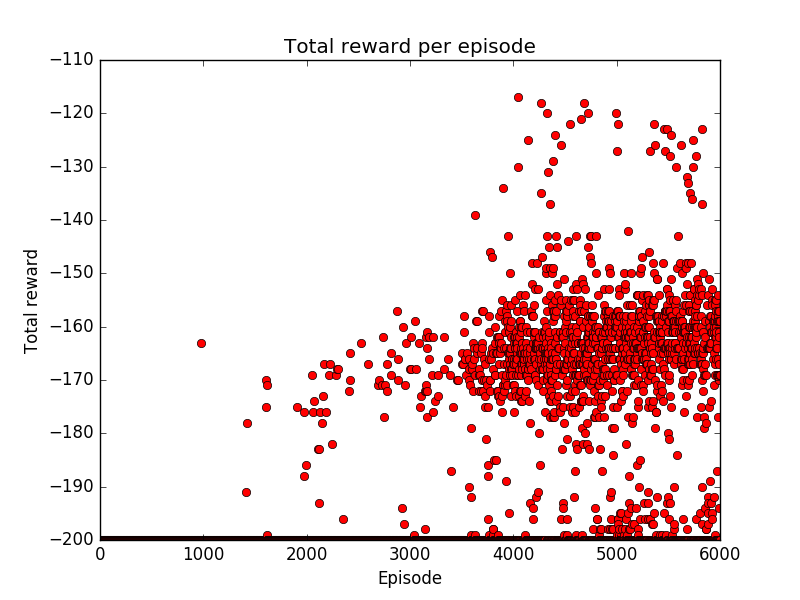
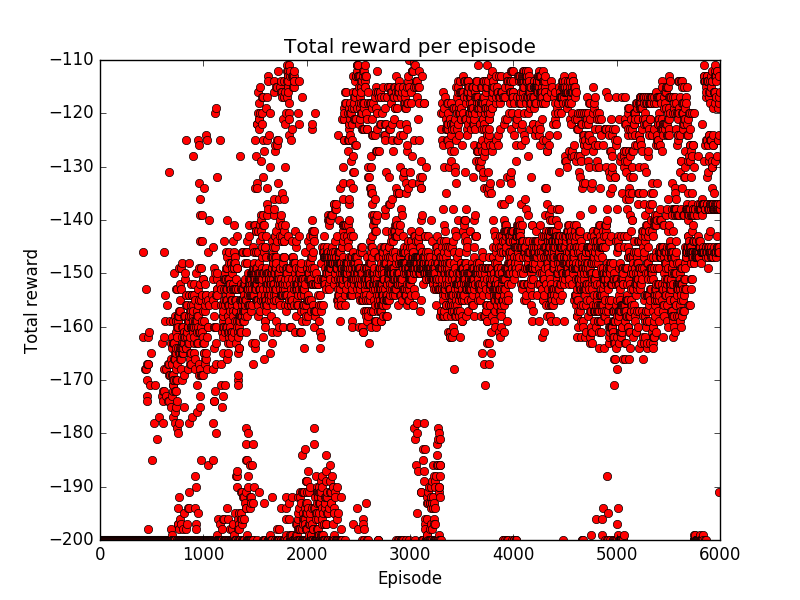
Put Sarsa code in a separate file and updated plots

diff --git a/MountainCar.py b/MountainCar.py
@@ -3,11 +3,9 @@
 import gym
 import sys
 from Policies.EGreedy import EGreedy
-# from Learners.Sarsa import Sarsa
+from Learners.Sarsa import Sarsa
 from Traces.EligibilityTraces import EligibilityTraces
 from FunctionApproximation.TileCoding import TileCoding
-
-import numpy as np
 
 env = gym.make('MountainCar-v0')
 
@@ -28,12 +26,12 @@ x_high, y_high = O.high
 
 A = env.action_space
 
-def draw_3d(tile_starts):
-    states = []
-    for i in range(n_x_tiles):
-        for j in range(n_y_tiles):
-            states.append([i, j])
-    states = np.array(states)
+# def draw_3d(tile_starts):
+#     states = []
+#     for i in range(n_x_tiles):
+#         for j in range(n_y_tiles):
+#             states.append([i, j])
+#     states = np.array(states)
 
 def main(n_episodes, monitor_directory):
     policy = EGreedy(epsilon)
@@ -44,23 +42,16 @@ def main(n_episodes, monitor_directory):
         # print('Episode {}'.format(i))
         traces = EligibilityTraces(function_approximation.features_shape, gamma, Lambda)
         state, action = env.reset(), 0
+        sarsa = Sarsa(gamma, alpha, policy, traces, function_approximation, range(A.n), state, action)
         done = False
         iteration = 0
         while not(done):
             iteration += 1
-            old_state, old_action = state, action
-            traces.adapt_traces(function_approximation.present_features(old_state, old_action))
             # env.render()
             state, reward, done, info = env.step(action)
             if done and iteration < steps_per_episode:
                 print("Episode {}: Less than {} steps were needed: {}".format(i, steps_per_episode, iteration))
-            delta = reward - function_approximation.summed_thetas(old_state, old_action)
-            Qs = [function_approximation.summed_thetas(state, action) for action in range(A.n)]
-            action, Q = policy.select_action(Qs)
-            delta += gamma * Q
-            function_approximation.set_thetas(alpha * delta * traces.traces)
-            traces.decay()
-
+            action = sarsa.step(state, reward)
     env.monitor.close()
 
 if __name__ == '__main__':

diff --git a/Learners/Sarsa.py b/Learners/Sarsa.py
@@ -1,18 +1,33 @@
 class Sarsa(object):
-    """Sarsa learner"""
-    def __init__(self, gamma, alpha, lambda_value, policy, traces, function_approximation):
+    """Sarsa learner for function approximation"""
+    def __init__(self, gamma, alpha, policy, traces, function_approximation, actions, start_state, start_action):
         super(Sarsa, self).__init__()
         self.gamma = gamma
         self.alpha = alpha
-        self.lambda_value = lambda_value
         self.policy = policy
         self.traces = traces
         self.function_approximation = function_approximation
+        self.actions = actions
+        self.old_state = start_state
+        self.old_action = start_action
 
-    def step(self, reward, thetas):
-        delta = reward - thetas
-        # get Qa
-        Qa = self.policy.select_action()
-        delta += self.gamma * Qa
-        thetas = thetas + self.alpha * delta * self.traces
-        self.traces.update(self.gamma, self.lambda_value)
+    def step(self, state, reward):
+        """Do one step of updating traces and function approximation and selecting an acting using a policy"""
+        self.traces.adapt_traces(self.function_approximation.present_features(self.old_state, self.old_action))
+        delta = reward - self.function_approximation.summed_thetas(self.old_state, self.old_action)
+        Qs = [self.function_approximation.summed_thetas(state, action) for action in self.actions]
+        action, Q = self.policy.select_action(Qs)
+        delta += self.gamma * Q
+        self.function_approximation.set_thetas(self.alpha * delta * self.traces.traces)
+        self.traces.decay()
+        self.old_state = state
+        self.old_action = action
+        return action
+
+    def reset(self, policy, traces, function_approximation, start_state, start_action):
+        """Reset the policy, traces, function approximation, start action and/or start state"""
+        self.policy = policy
+        self.traces = traces
+        self.function_approximation = function_approximation
+        self.old_state = start_state
+        self.old_action = start_action

diff --git a/README.md b/README.md
@@ -8,7 +8,7 @@ Currently, the following parts are combined to learn to act in the [Mountain Car
 - EGreedy action selection policy
 - Function approximation using tile coding
 
-Example of a run after training with a total greedy action selection policy for 4000 episodes of each 200 steps:
+Example of a run after training with a total greedy action selection policy for 729 episodes of each 200 steps:
 ![Example run](examplerun.gif)
 
 Total reward per episode:
